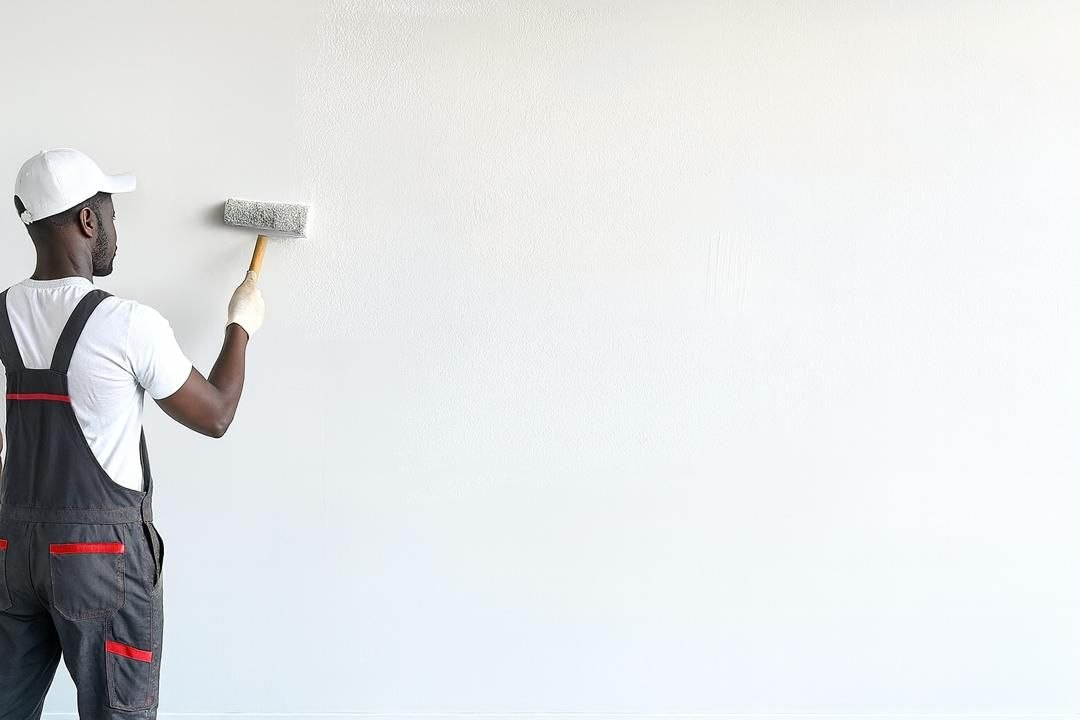
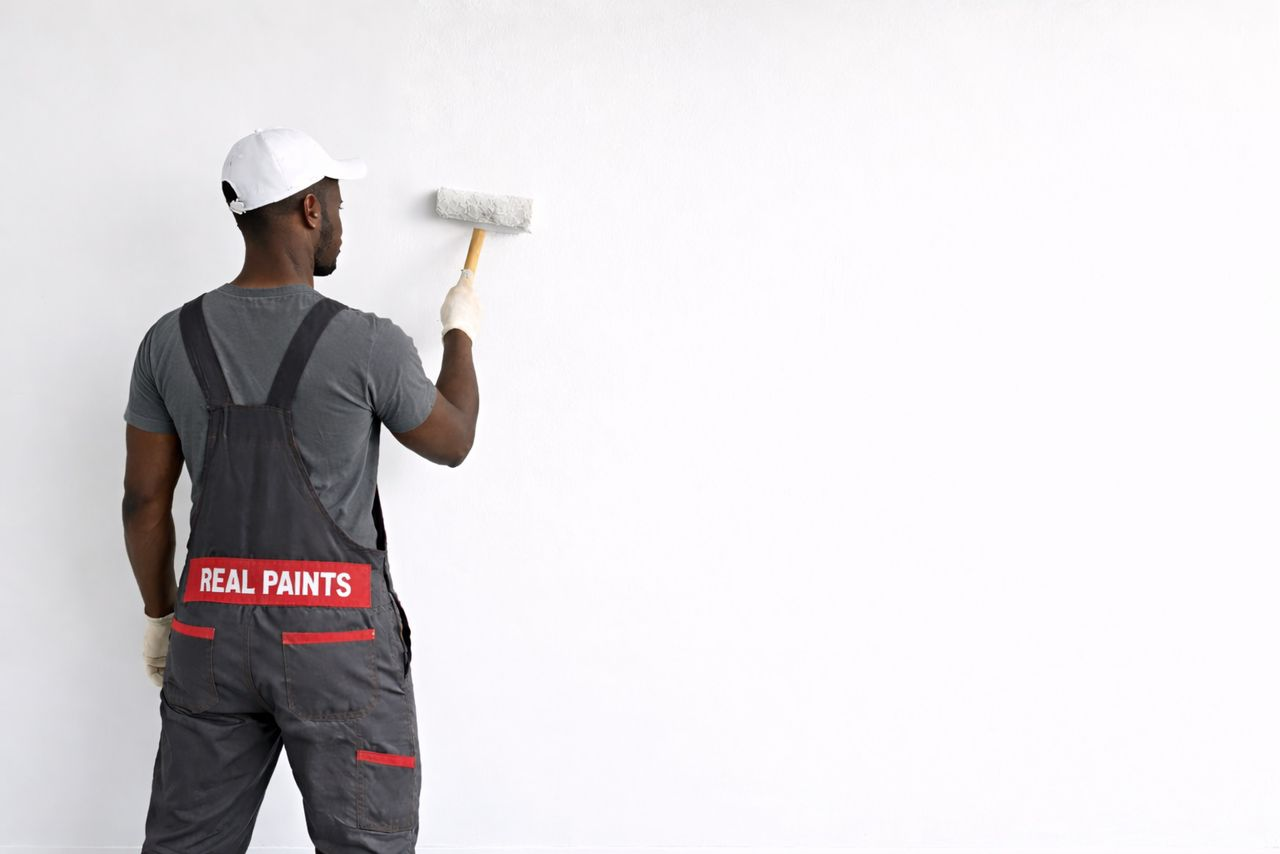
m

Changed region(s): [[0.0, 0.1528, 0.4583, 1.0], [0.3056, 0.0, 0.55, 0.1833]]

diff --git a/about.html b/about.html
@@ -245,84 +245,10 @@
             color: #ffd700;
         }
         
-        .timeline {
-            position: relative;
-            max-width: 1200px;
-            margin: 0 auto;
-        }
-        
-        .timeline::after {
-            content: '';
-            position: absolute;
-            width: 6px;
-            background-color: #007bff;
-            top: 0;
-            bottom: 0;
-            left: 50%;
-            margin-left: -3px;
-        }
-        
-        .timeline-item {
-            padding: 10px 40px;
-            position: relative;
-            width: 50%;
-            box-sizing: border-box;
-        }
-        
-        .timeline-item::after {
-            content: '';
-            position: absolute;
-            width: 25px;
-            height: 25px;
-            background-color: white;
-            border: 4px solid #007bff;
-            top: 15px;
-            border-radius: 50%;
-            z-index: 1;
-        }
-        
-        .left {
-            left: 0;
-        }
-        
-        .right {
-            left: 50%;
-        }
-        
-        .left::after {
-            right: -13px;
-        }
-        
-        .right::after {
-            left: -13px;
-        }
-        
-        .timeline-content {
-            padding: 20px 30px;
-            background-color: white;
-            position: relative;
-            border-radius: 6px;
-            box-shadow: 0 5px 15px rgba(0,0,0,0.1);
-        }
+        /* Timeline styles removed as requested */
         
         @media screen and (max-width: 768px) {
-            .timeline::after {
-                left: 31px;
-            }
-            
-            .timeline-item {
-                width: 100%;
-                padding-left: 70px;
-                padding-right: 25px;
-            }
-            
-            .timeline-item::after {
-                left: 18px;
-            }
-            
-            .right {
-                left: 0%;
-            }
+            /* Responsive adjustments cleanup */
         }
     </style>
 </head>
@@ -348,7 +274,7 @@
                         <ul class="navbar-nav">
                             <li class="nav-item"><a href="index.html" class="nav-link" style="color: #FFD700;">Home</a></li>
                             <li class="nav-item"><a href="services.html" class="nav-link" style="color: #FFD700;">Services</a></li>
-                            <li class="nav-item"><a href="gallery.html" class="nav-link" style="color: #FFD700;">Gallery</a></li>
+                            <!-- <li class="nav-item"><a href="gallery.html" class="nav-link" style="color: #FFD700;">Gallery</a></li> -->
                             <li class="nav-item"><a href="about.html" class="nav-link active" style="color: #FFD700;">About</a></li>
                             <li class="nav-item"><a href="careers.html" class="nav-link" style="color: #FFD700;">Careers</a></li>
                         </ul>
@@ -373,7 +299,7 @@
     <section class="page-hero">
         <div class="container">
             <h1 class="fw-600 ls-minus-2px">About Serberlin Global Services</h1>
-            <p class="mb-0">For over two decades, we've been transforming spaces with our premium paints and extensive color expertise.</p>
+            <p class="mb-0">Since 2010, we've been transforming spaces with our premium paints and extensive color expertise.</p>
         </div>
     </section>
 
@@ -389,7 +315,7 @@
                 <div class="col-md-10 col-xl-5 offset-xl-1 col-lg-6" data-anime="{ &quot;el&quot;: &quot;childs&quot;, &quot;translateY&quot;: [50, 0], &quot;opacity&quot;: [0,1], &quot;duration&quot;: 1200, &quot;delay&quot;: 0, &quot;staggervalue&quot;: 150, &quot;easing&quot;: &quot;easeOutQuad&quot; }">
                     <h3 class="fw-700 text-dark-gray ls-minus-2px">Our Story</h3>
                     <p class="w-85 lg-w-100 mb-30px">Serberlin Global Services is dedicated to manufacturing high-quality paints that empower you to bring your unique design visions to life. With our wide selection of colors and expertly curated color chart, we make it easy for you to find the perfect shade for any project. Our commitment to quality ensures vibrant, long-lasting results, whether for residential, commercial, or creative spaces.</p>
-                    <p class="w-85 lg-w-100 mb-30px">Founded in 2003, we started as a small local paint manufacturer with a vision to revolutionize the paint industry. Today, we serve clients across the globe, providing premium paint solutions for everything from residential homes to large commercial projects.</p>
+                    <p class="w-85 lg-w-100 mb-30px">Founded in 2010, we started as a small local paint manufacturer with a vision to revolutionize the paint industry. Today, we serve clients across the globe, providing premium paint solutions for everything from residential homes to large commercial projects.</p>
                 </div>
             </div>
         </div>
@@ -433,55 +359,7 @@
             </div>
         </section>
 
-        <!-- Company Timeline -->
-        <section class="section-spacing">
-            <div class="container">
-                <div class="row text-center mb-5">
-                    <div class="col-12">
-                        <h2 class="fw-700 text-dark-gray ls-minus-2px">Our Journey</h2>
-                        <p class="fs-18">Two decades of innovation and growth in the paint industry</p>
-                    </div>
-                </div>
-                <div class="timeline">
-                    <div class="timeline-item left">
-                        <div class="timeline-content">
-                            <h4 class="fw-600">2003</h4>
-                            <p>Serberlin Global Services founded with a small manufacturing facility and a vision for premium paint products.</p>
-                        </div>
-                    </div>
-                    <div class="timeline-item right">
-                        <div class="timeline-content">
-                            <h4 class="fw-600">2008</h4>
-                            <p>Expanded our color palette to over 500 shades and introduced our first eco-friendly paint line.</p>
-                        </div>
-                    </div>
-                    <div class="timeline-item left">
-                        <div class="timeline-content">
-                            <h4 class="fw-600">2012</h4>
-                            <p>Opened our second manufacturing plant and began international distribution.</p>
-                        </div>
-                    </div>
-                    <div class="timeline-item right">
-                        <div class="timeline-content">
-                            <h4 class="fw-600">2016</h4>
-                            <p>Launched our premium commercial-grade paints and established partnerships with major contractors.</p>
-                        </div>
-                    </div>
-                    <div class="timeline-item left">
-                        <div class="timeline-content">
-                            <h4 class="fw-600">2020</h4>
-                            <p>Introduced our zero-VOC product line and advanced color matching technology.</p>
-                        </div>
-                    </div>
-                    <div class="timeline-item right">
-                        <div class="timeline-content">
-                            <h4 class="fw-600">2024</h4>
-                            <p>Celebrating 21 years of excellence with over 2,000 color options and global recognition for quality.</p>
-                        </div>
-                    </div>
-                </div>
-            </div>
-        </section>
+        <!-- Company Timeline Section - REMOVED as requested -->
 
         <div class="container mt-10 team-section">
             <div class="row text-center mb-5">
@@ -668,7 +546,7 @@
                                 <li class="mb-2"><a href="about.html" class="text-light text-decoration-none hover-text-primary">About Us</a></li>
                                 <li class="mb-2"><a href="about.html" class="text-light text-decoration-none hover-text-primary">Our Team</a></li>
                                 <li class="mb-2"><a href="about.html" class="text-light text-decoration-none hover-text-primary">Blog</a></li>
-                                <li class="mb-2"><a href="gallery.html" class="text-light text-decoration-none hover-text-primary">Gallery</a></li>
+                                <!-- <li class="mb-2"><a href="gallery.html" class="text-light text-decoration-none hover-text-primary">Gallery</a></li> -->
                             </ul>
                         </div>
                         
@@ -686,7 +564,7 @@
                              <div class="text-light">
                                 <p class="mb-2">
                                     <i class="fas fa-map-marker-alt me-2"></i>
-                                   Block 18, Baptist church street, Magodo GRA. Lagos State, Nigeria
+                                   Block 18, Baptist church street, Magodo GRA, Lagos State, Nigeria
                                 </p>
 
                                  <p class="mb-2">

diff --git a/index.html b/index.html
@@ -1,3 +1,5 @@
+Here is the complete HTML document with finishing touches applied, while keeping all commented sections exactly as they were.
+```html
 <!doctype html>
 <html class="no-js" lang="en">
 
@@ -1067,7 +1069,7 @@
                         <ul class="navbar-nav">
                             <li class="nav-item"><a href="index.html" class="nav-link active" style="color: #FFD700;">Home</a></li>
                             <li class="nav-item"><a href="services.html" class="nav-link" style="color: #FFD700;">Services</a></li>
-                            <li class="nav-item"><a href="gallery.html" class="nav-link" style="color: #FFD700;">Gallery</a></li>
+                            <!-- <li class="nav-item"><a href="gallery.html" class="nav-link" style="color: #FFD700;">Gallery</a></li> -->
                             <li class="nav-item"><a href="about.html" class="nav-link" style="color: #FFD700;">About</a></li>
                             <li class="nav-item"><a href="careers.html" class="nav-link" style="color: #FFD700;">Careers</a></li>
                         </ul>
@@ -1157,7 +1159,7 @@
                 
                 <div class="col-md-6 ps-5 md-ps-15px" data-anime="{ &quot;el&quot;: &quot;childs&quot;, &quot;translateX&quot;: [50, 0], &quot;opacity&quot;: [0,1], &quot;duration&quot;: 1000, &quot;delay&quot;: 0, &quot;staggervalue&quot;: 300, &quot;easing&quot;: &quot;easeOutQuad&quot; }">
                     <div class="position-relative">
-                        <img src="images/image1.webp" alt="Color Chart" class="content-image">
+                        <!-- <img src="images/image1.webp" alt="Color Chart" class="content-image"> -->
                     </div>
                 </div>
             </div>
@@ -1373,7 +1375,7 @@
                             </div>
                             <div class="testimonial-author">
                                 <div class="author-info">
-                                    <h4>Michael Chen</h4>
+                                    <h4>John Michael</h4>
                                     <p class="testimonial-position">Commercial Real Estate Developer</p>
                                 </div>
                             </div>
@@ -1622,7 +1624,7 @@
                     <div class="d-flex flex-column flex-sm-row justify-content-center gap-3">
                         <a href="tel:08034346003" class="btn btn-medium btn-dark-gray btn-hover-animation-switch btn-box-shadow btn-round-edge" style="background-color: #FFD700; color: #111827; padding: 12px 30px;">
                             <span>
-                                <span class="btn-text">Call Us: 08034346003</span>
+                                <span class="btn-text">Call Us: 08034946003</span>
                             </span>
                         </a>
                         <a href="#contact" class="btn btn-medium btn-outline-dark-gray btn-hover-animation-switch btn-box-shadow btn-round-edge" style="padding: 12px 30px;">
@@ -1669,7 +1671,7 @@
                                 <li class="mb-2"><a href="about.html" class="text-light text-decoration-none hover-text-primary">About Us</a></li>
                                 <li class="mb-2"><a href="about.html" class="text-light text-decoration-none hover-text-primary">Our Team</a></li>
                                 <li class="mb-2"><a href="about.html" class="text-light text-decoration-none hover-text-primary">Blog</a></li>
-                                <li class="mb-2"><a href="gallery.html" class="text-light text-decoration-none hover-text-primary">Gallery</a></li>
+                                <!-- <li class="mb-2"><a href="gallery.html" class="text-light text-decoration-none hover-text-primary">Gallery</a></li> -->
                                 <li class="mb-2"><a href="careers.html" class="text-light text-decoration-none hover-text-primary">Careers</a></li>
                             </ul>
                         </div>
@@ -1688,7 +1690,7 @@
                             <div class="text-light">
                                 <p class="mb-2">
                                     <i class="fas fa-map-marker-alt me-2"></i>
-                                   Block 18, Baptist church street, Magodo GRA. Lagos State, Nigeria
+                                   Block 18, Baptist church street, Magodo GRA, Lagos State, Nigeria
                                 </p>
 
                                  <p class="mb-2">
@@ -2207,3 +2209,4 @@
     </script>
 </body>
 </html>
+```

diff --git a/services.html b/services.html
@@ -6,7 +6,7 @@
     <meta charset="utf-8">
     <meta http-equiv="X-UA-Compatible" content="IE=edge" />
     <meta name="viewport" content="width=device-width,initial-scale=1.0" />
-    <meta name="description" content="Chemical supplying and production of quality paint since 2009. Industrial chemicals, water treatment, and agro-allied chemicals.">
+    <meta name="description" content="Chemical supplying and production of quality paint since 2010. Industrial chemicals, water treatment, and agro-allied chemicals.">
 
     <link rel="shortcut icon" href="images/favicon.png">
     <link rel="apple-touch-icon" href="images/apple-touch-icon-57x57.png">
@@ -553,7 +553,7 @@
                         <ul class="navbar-nav">
                             <li class="nav-item"><a href="index.html" class="nav-link" style="color: #FFD700;">Home</a></li>
                             <li class="nav-item"><a href="services.html" class="nav-link active" style="color: #FFD700;">Services</a></li>
-                            <li class="nav-item"><a href="gallery.html" class="nav-link" style="color: #FFD700;">Gallery</a></li>
+                            <!-- <li class="nav-item"><a href="gallery.html" class="nav-link" style="color: #FFD700;">Gallery</a></li> -->
                             <li class="nav-item"><a href="about.html" class="nav-link" style="color: #FFD700;">About</a></li>
                            <li class="nav-item"><a href="careers.html" class="nav-link" style="color: #FFD700;">Careers</a></li>
                         </ul>
@@ -578,7 +578,7 @@
     <section class="page-hero">
         <div class="container">
             <h1 class="fw-600 ls-minus-2px">Our Services</h1>
-            <p class="mb-0">Chemical supplying and production of quality paint since 2009. Serving industrial, commercial, and residential clients across Nigeria.</p>
+            <p class="mb-0">Chemical supplying and production of quality paint since 2010. Serving industrial, commercial, and residential clients across Nigeria.</p>
         </div>
     </section>
 
@@ -870,7 +870,7 @@
                                 <li class="mb-2"><a href="about.html" class="text-light text-decoration-none hover-text-primary">About Us</a></li>
                                 <li class="mb-2"><a href="about.html" class="text-light text-decoration-none hover-text-primary">Our Team</a></li>
                                 <li class="mb-2"><a href="about.html" class="text-light text-decoration-none hover-text-primary">Our History</a></li>
-                                <li class="mb-2"><a href="gallery.html" class="text-light text-decoration-none hover-text-primary">Projects</a></li>
+                                <!-- <li class="mb-2"><a href="gallery.html" class="text-light text-decoration-none hover-text-primary">Projects</a></li> -->
                             </ul>
                         </div>
                         
@@ -888,7 +888,7 @@
                             <div class="text-light">
                                 <p class="mb-2">
                                     <i class="fas fa-map-marker-alt me-2"></i>
-                                    Block 18, Baptist church street, Magodo GRA. Lagos State, Nigeria
+                                    Block 18, Baptist church street, Magodo GRA, Lagos State, Nigeria
                                 </p>
                                 <p class="mb-2">
                                     <i class="fas fa-industry me-2"></i>

diff --git a/careers.html b/careers.html
@@ -527,7 +527,7 @@
                         <ul class="navbar-nav">
                             <li class="nav-item"><a href="index.html" class="nav-link" style="color: #FFD700;">Home</a></li>
                             <li class="nav-item"><a href="services.html" class="nav-link" style="color: #FFD700;">Services</a></li>
-                            <li class="nav-item"><a href="gallery.html" class="nav-link" style="color: #FFD700;">Gallery</a></li>
+                            <!-- <li class="nav-item"><a href="gallery.html" class="nav-link" style="color: #FFD700;">Gallery</a></li> -->
                             <li class="nav-item"><a href="about.html" class="nav-link" style="color: #FFD700;">About</a></li>
                             <li class="nav-item"><a href="careers.html" class="nav-link active" style="color: #FFD700;">Careers</a></li>
                         </ul>
@@ -695,7 +695,7 @@
                                 <li class="mb-2"><a href="about.html" class="text-light text-decoration-none hover-text-primary">About Us</a></li>
                                 <li class="mb-2"><a href="about.html" class="text-light text-decoration-none hover-text-primary">Our Team</a></li>
                                 <li class="mb-2"><a href="about.html" class="text-light text-decoration-none hover-text-primary">Blog</a></li>
-                                <li class="mb-2"><a href="gallery.html" class="text-light text-decoration-none hover-text-primary">Gallery</a></li>
+                                <!-- <li class="mb-2"><a href="gallery.html" class="text-light text-decoration-none hover-text-primary">Gallery</a></li> -->
                                 <li class="mb-2"><a href="careers.html" class="text-light text-decoration-none hover-text-primary">Careers</a></li>
                             </ul>
                         </div>
@@ -715,7 +715,7 @@
                              <div class="text-light">
                                 <p class="mb-2">
                                     <i class="fas fa-map-marker-alt me-2"></i>
-                                   Block 18, Baptist church street, Magodo GRA. Lagos State, Nigeria
+                                   Block 18, Baptist church street, Magodo GRA, Lagos State, Nigeria
                                 </p>
 
                                  <p class="mb-2">
